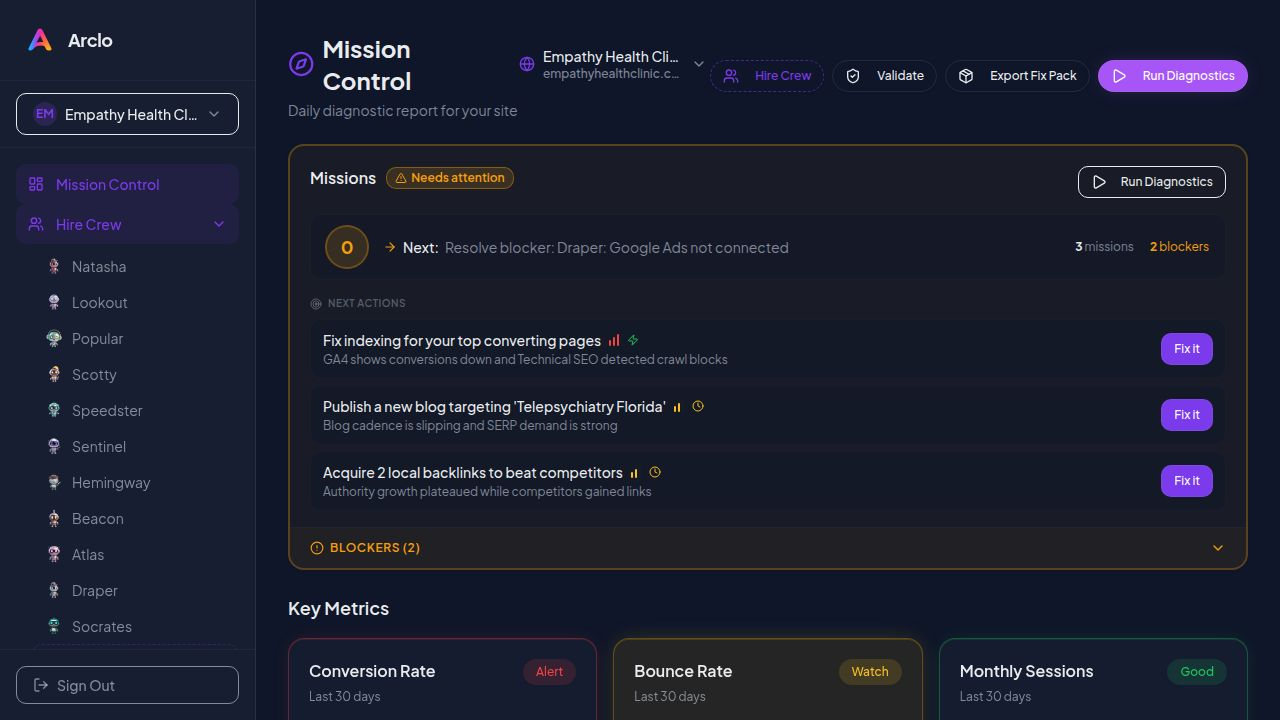
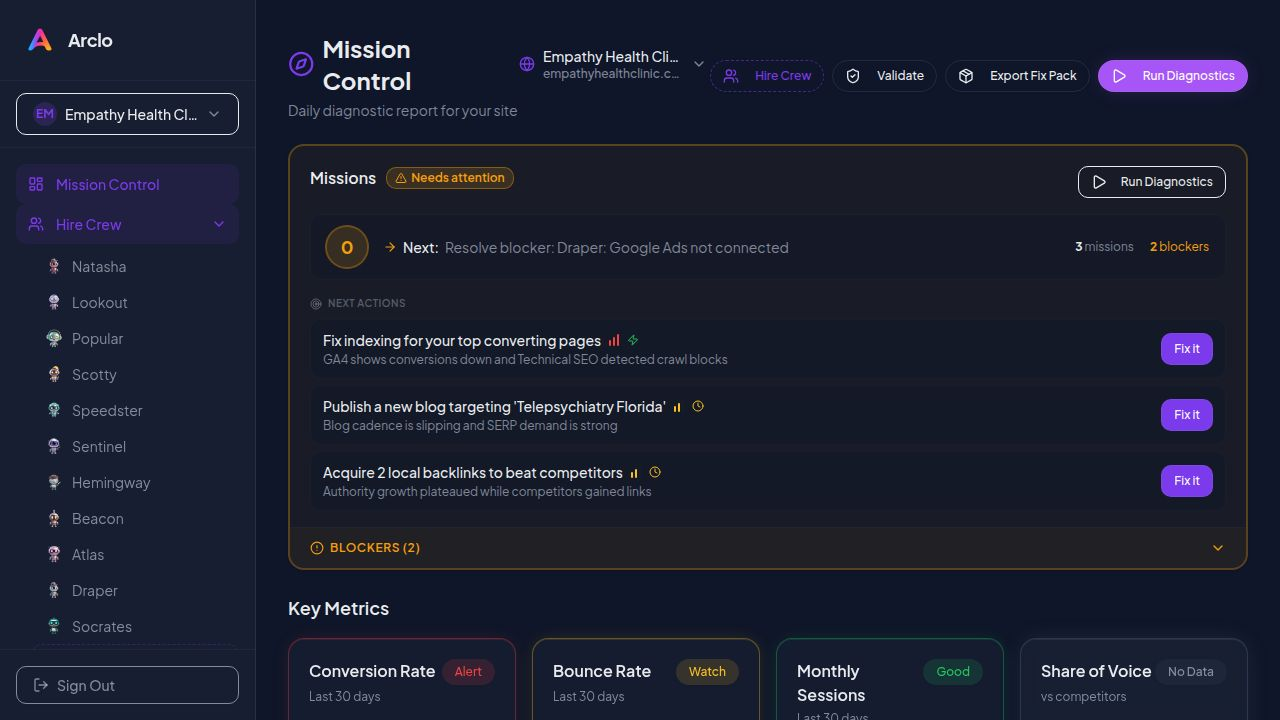
Add share of voice to the main dashboard view
Add a new API query for competitive overview data and display Share of Voice as a metric card on the MissionControl dashboard.

Replit-Commit-Author: Agent
Replit-Commit-Session-Id: 3e32dd0f-98d1-4403-bf63-9d03e85c6567
Replit-Commit-Checkpoint-Type: full_checkpoint
Replit-Commit-Event-Id: 8e3f6036-291f-4bc3-9b60-103e72bc9e41
Replit-Commit-Screenshot-Url: https://storage.googleapis.com/screenshot-production-us-central1/b4e16f48-8d48-42ea-921a-7d6fa71e03be/3e32dd0f-98d1-4403-bf63-9d03e85c6567/kdvylYE
Replit-Helium-Checkpoint-Created: true

Changed region(s): [[0.5938, 0.8861, 0.9688, 1.0], [0.3438, 0.8861, 0.5938, 0.9778]]

diff --git a/client/src/pages/MissionControl.tsx b/client/src/pages/MissionControl.tsx
@@ -331,6 +331,18 @@ function MetricCardsRow() {
     gcTime: 300000, // Keep in cache for 5 minutes
   });
   
+  // Fetch competitive overview for Share of Voice
+  const { data: competitiveData } = useQuery({
+    queryKey: ['competitive-overview', siteId],
+    queryFn: async () => {
+      const res = await fetch(`/api/competitive/overview?siteId=${siteId}`);
+      if (!res.ok) return null;
+      return res.json();
+    },
+    staleTime: 60000,
+    gcTime: 300000,
+  });
+  
   // Merge function that preserves previous non-null values
   const getMetricFromBenchmarks = (metric: string) => {
     const freshData = benchmarkData?.comparison?.find((c: any) => c.metric === metric);
@@ -401,14 +413,25 @@ function MetricCardsRow() {
       nextAction: { text: 'Review Popular', link: buildRoute.agent('google_data_connector') },
       timeRange: 'Last 30 days',
     },
+    {
+      id: 'share-of-voice',
+      label: 'Share of Voice',
+      value: competitiveData?.shareOfVoice != null ? `${Math.round(competitiveData.shareOfVoice)}%` : '—',
+      delta: competitiveData?.shareOfVoice > 0 ? '+' : '',
+      deltaPct: 0,
+      verdict: competitiveData?.shareOfVoice > 20 ? 'good' : competitiveData?.shareOfVoice > 0 ? 'watch' : 'neutral',
+      sparkline: [0, 5, 8, 12, 15, 18, competitiveData?.shareOfVoice || 0],
+      nextAction: { text: 'Review Natasha', link: buildRoute.agent('competitive_snapshot') },
+      timeRange: 'vs competitors',
+    },
   ];
 
   return (
     <div data-testid="metric-cards-row">
       <h2 className="text-lg font-semibold text-foreground mb-4">Key Metrics</h2>
-      <div className="grid gap-4 sm:grid-cols-2 lg:grid-cols-3">
+      <div className="grid gap-4 sm:grid-cols-2 lg:grid-cols-4">
         {metrics.map((metric) => (
-          <MetricCard key={metric.id} metric={metric} highlighted={metric.id === 'bounce-rate'} />
+          <MetricCard key={metric.id} metric={metric} highlighted={metric.id === 'share-of-voice'} />
         ))}
       </div>
     </div>
